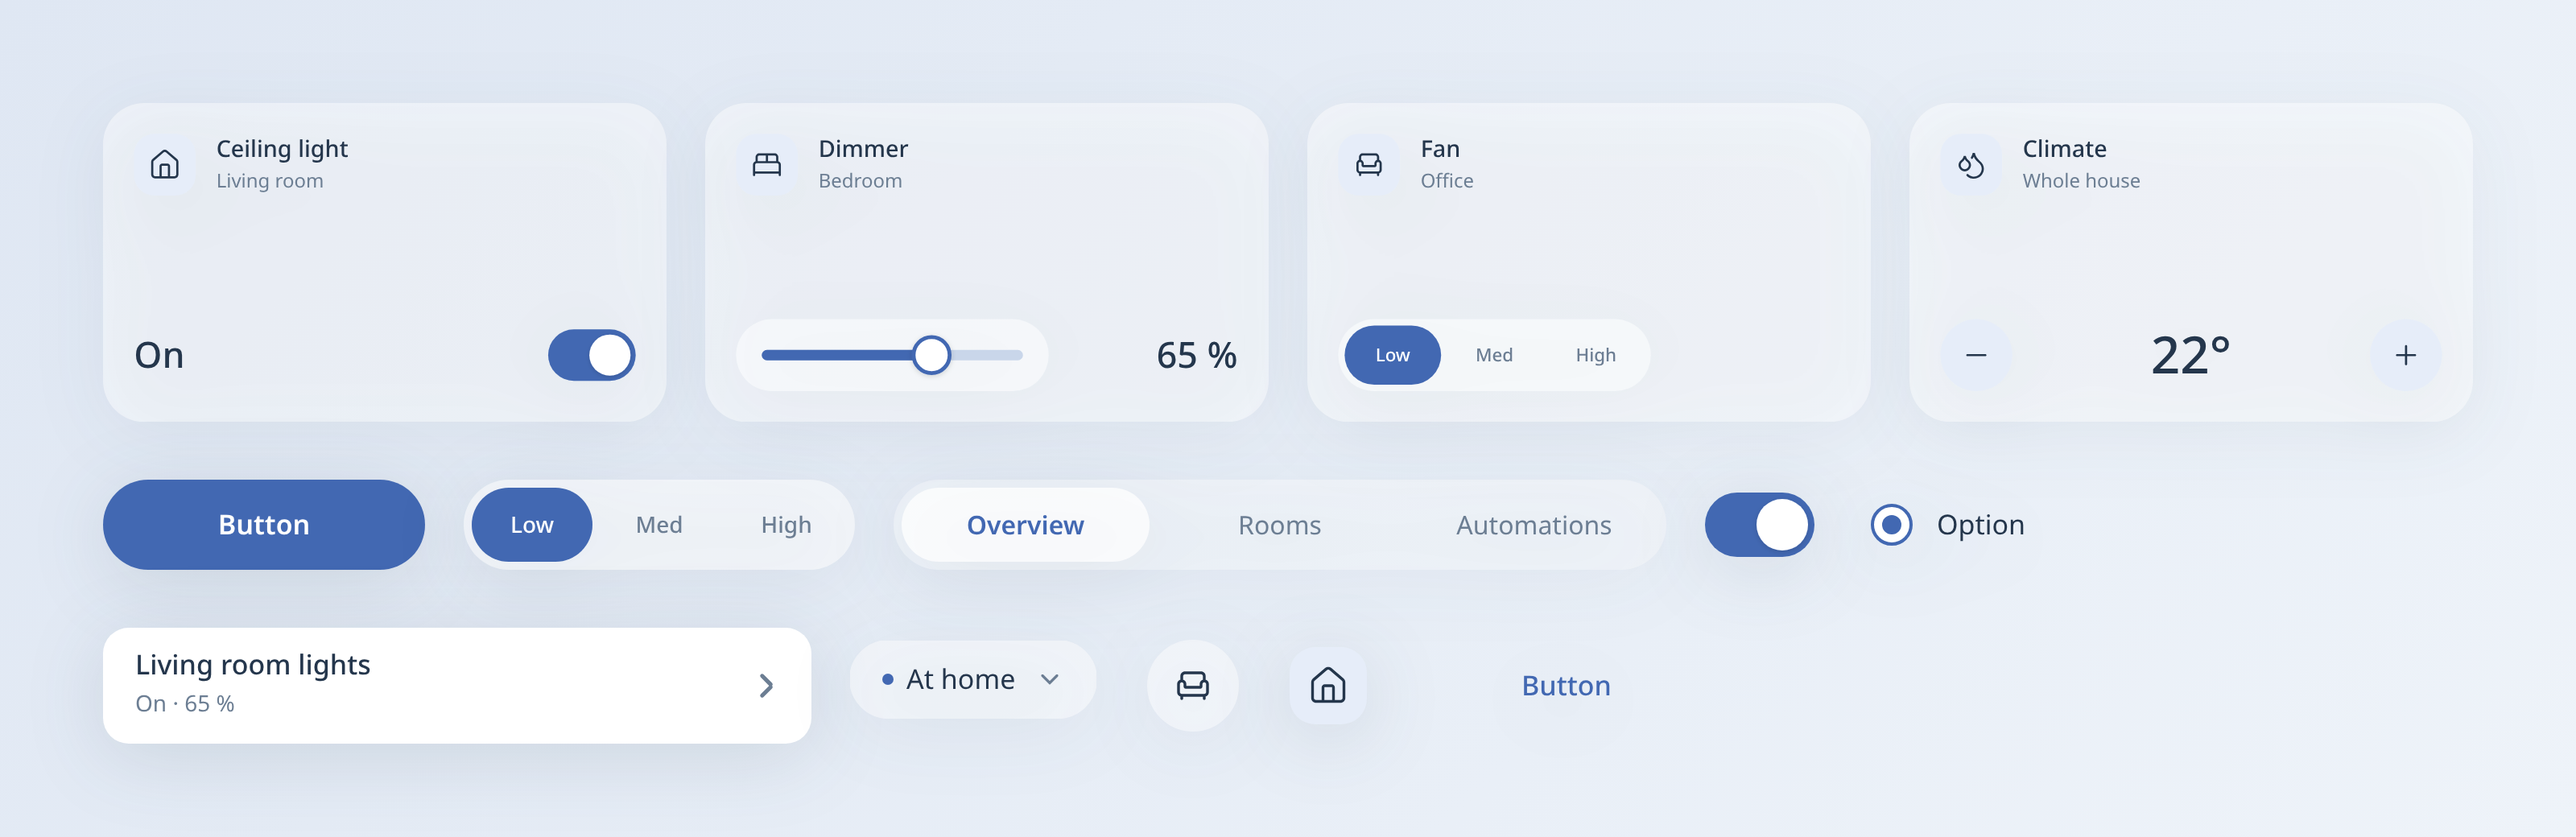
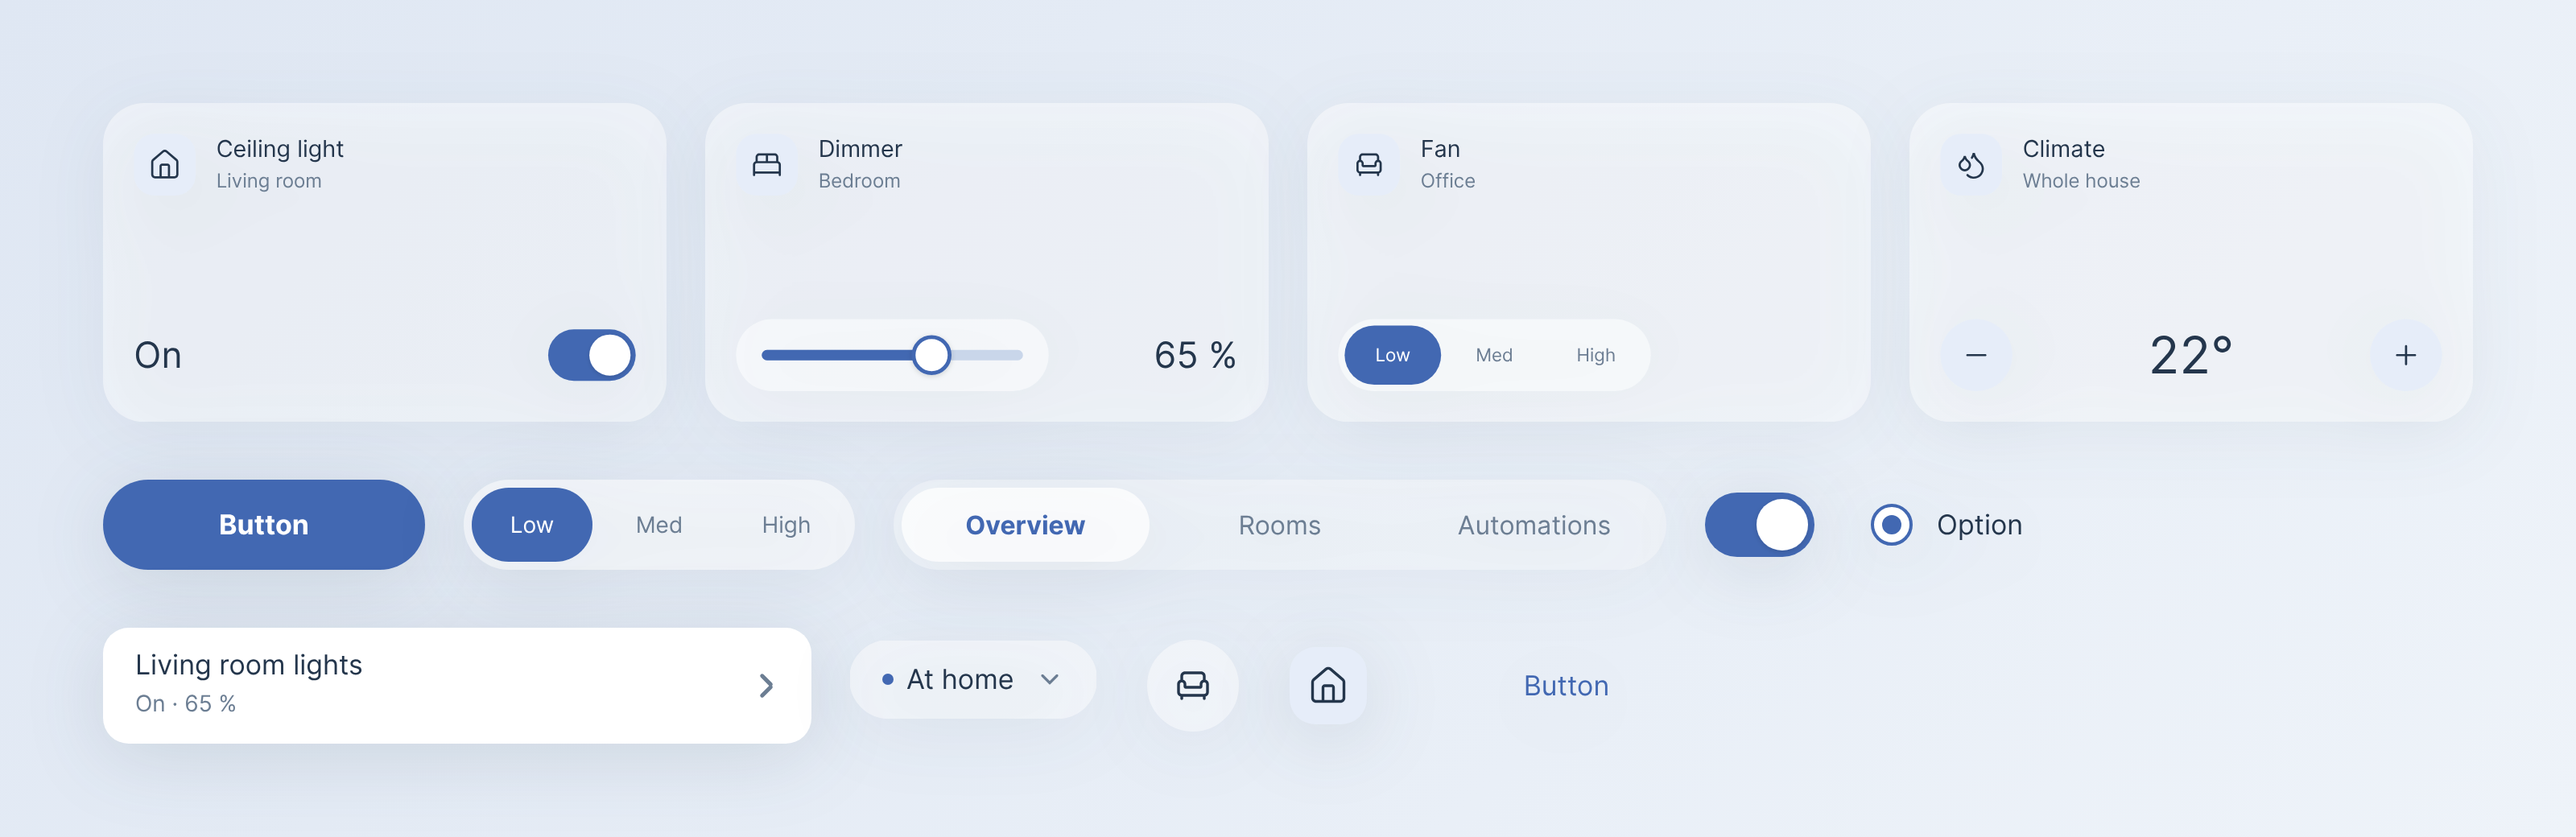
After the review: the README's claims, no skill that is not published, the gallery's font
README: only everyware, ui-lib and the apps have an AGENTS.md; the links at the tree's top come
with repo sync; a new app needs design/build.sh before it runs; four places, not four lines; the
Android.bp hint points at tv-app's file instead of a rust_binary that does not build; an app's
.dcf is built from its design; a tap goes through the app's actions; pairs-app uses the dark
theme too; the recipes test is run.
The harry-app skill is not part of the public apps: AGENTS.md, three skills and llms.txt point
at the new-app skill's build and run steps and at smarthome-app's harry-app-anatomy.md instead.
gallery.py loads Inter from an app's data/, so the picture is drawn in the device's font.

diff --git a/docs/build-docs.js b/docs/build-docs.js
@@ -869,7 +869,7 @@ ${STAGES.map(([own, title, file, code, text], i) => `${i + 1}. ${title} (${file}
 - skills/new-app/SKILL.md: a new board as an app of its own from one sentence (scripts/new-app.sh, the design patch, fig-to-dcf.sh, the RB3)
 - skills/ui-component/SKILL.md and traps.md: how to add or change a component (spec, Figma generator, Rust, binding, app)
 - ../everyware/skills/figma-design/SKILL.md: screens, sheets and the designer's prototype
-- ../everyware/skills/harry-app/SKILL.md: a harry app end to end (state, actions, presenter, UI model)
+- ../../../packages/services/display_safety/utils/smarthome-app/docs/harry-app-anatomy.md: a harry app end to end (state, actions, presenter, UI model)
 
 ${rules}
 

diff --git a/docs/readme/gallery.py b/docs/readme/gallery.py
@@ -5,12 +5,17 @@ see-through glass and are drawn on the light theme's background.
 
 From ui-lib's folder:
 
-    python3 docs/readme/gallery.py docs/assets /tmp/gallery.html
-    google-chrome --headless=new --hide-scrollbars --force-device-scale-factor=2 \
+    python3 docs/readme/gallery.py docs/assets /tmp/gallery.html \
+        ../../../packages/services/display_safety/utils/tv-app/data
+    google-chrome --headless=new --hide-scrollbars --allow-file-access-from-files \
+        --force-device-scale-factor=2 \
         --window-size=1600,520 --screenshot=docs/readme/components.png file:///tmp/gallery.html
 """
 import os, re, sys
 A, OUT = sys.argv[1:3]
+# the device's font (regular and bold; a medium weight is drawn regular), so that the picture
+# does not fall back to the host's system font
+FONTS = os.path.abspath(sys.argv[3]) if len(sys.argv) > 3 else None
 
 def load(path):
     return open(os.path.join(A, path)).read()
@@ -47,7 +52,10 @@ row2 = [('w440', load('list-item/state=default,kind=chevron,lines=two,size=regul
         ('', load('icon-button/kind=glass,state=default,icon=armchair,size=regular.svg')), ('', load('symbol/icon=house.svg')),
         ('', load('button/kind=ghost,state=default,size=regular.svg'))]
 cell = lambda s, c='': f'<div class="{c}">{s}</div>'
-page = f'''<!doctype html><html><head><meta charset="utf-8"><style>
+faces = ''.join(
+    f"@font-face{{font-family:Inter;font-weight:{w};src:url('file://{FONTS}/inter_{n}.otf')}}"
+    for n, w in (('regular', '100 599'), ('bold', '600 900'))) if FONTS else ''
+page = f'''<!doctype html><html><head><meta charset="utf-8"><style>{faces}
 body{{margin:0;font-family:Inter,system-ui,sans-serif}}
 .c{{width:1600px;height:520px;padding:64px;box-sizing:border-box;background:linear-gradient(135deg,#dfe7f3,#eef3f9);display:flex;flex-direction:column;gap:36px}}
 svg{{display:block;height:auto;filter:drop-shadow(0 8px 24px rgba(36,54,76,.12))}}

diff --git a/README.md b/README.md
@@ -3,7 +3,7 @@
 UI components for harry apps on embedded devices: the look is designed in Figma, the behaviour
 is written in Rust, and the screen is drawn without the Android framework.
 
-![Tiles with a toggle, a slider, a segmented button and a stepper; a button, tabs, a switch, a radio button, a list item, a dropdown and icon buttons, as the Library draws them.](docs/readme/components.png)
+![Tiles with a toggle, a slider, a segmented button and a stepper; a button, tabs, a switch, a radio button, a list item, a dropdown and icon buttons: the Library's previews, with the values an app sets.](docs/readme/components.png)
 
 EveryWare UI is the component library of [SDV EveryWare](https://github.com/sdv-everyware/everyware).
 It gives an app 21 components, from a button to an on-screen keyboard, named after their
@@ -43,8 +43,8 @@ sets, its transitions, the Rust API and the lines an app writes.
 
 ## Get started
 
-**The project is built AI first.** Every repository has an `AGENTS.md`, the guide a coding agent
-reads before it touches anything, and the work itself is written down as **skills**: step by step
+**The project is built AI first.** `everyware`, `ui-lib` and every app have an `AGENTS.md`, the
+guide a coding agent reads before it touches anything, and the work itself is written down as **skills**: step by step
 instructions an agent follows, with the traps. This library's guide is [AGENTS.md](AGENTS.md).
 
 The library is part of the SDV EveryWare tree. Sync the tree and build the image as described in
@@ -54,8 +54,9 @@ to the top of that tree.
 ### Build your app with a coding agent
 
 Open the tree in a coding agent (Claude Code, or any agent that reads `AGENTS.md`) and say what
-you want in one sentence. The tree's top has `AGENTS.md` and `CLAUDE.md`, both links to the
-project's guide, so the agent knows the skills from the start. It picks the skill and follows it
+you want in one sentence. After `repo sync` with the project's manifest the tree's top has
+`AGENTS.md` and `CLAUDE.md`, both links to the project's guide, so the agent knows the skills
+from the start. It picks the skill and follows it
 to the board:
 
 | You tell the agent | Skill | What the agent does |
@@ -81,18 +82,20 @@ The skills are also the tutorials: the same steps, for a person. The short versi
 
 ```bash
 vendor/sdv-everyware/ui-lib/scripts/new-app.sh kitchen
+packages/services/display_safety/utils/kitchen-app/design/build.sh   # the design: data/kitchen.dcf
 m kitchen_app
 ```
 
 `new-app.sh` copies tv-app into `packages/services/display_safety/utils/kitchen-app` with its own
-git repository and every name changed. The app builds and runs as it is; then you change its
-design and its screen. The full path from an idea to the board is in
+git repository and every name changed. It builds as it is; `design/build.sh` makes its design
+document, and then it runs with tv-app's screen under the new names. Then you change its design
+and its screen. The full path from an idea to the board is in
 [skills/new-app](skills/new-app/SKILL.md).
 
 #### Put a component on a screen
 
 In Figma, the place on the screen is a frame named for the app, with an instance of the
-component inside: a frame `#entryway/light` holding a `#toggle`. In the app it takes four lines:
+component inside: a frame `#entryway/light` holding a `#toggle`. In the app it takes four places:
 
 ```rust
 use everyware_ui::toggle::{Toggle, ToggleEvent};
@@ -119,12 +122,9 @@ test on the host checks that every name and variant the code uses is in the app'
 
 #### Use it in an existing app
 
-```
-rust_binary {
-    name: "kitchen_app",
-    rustlibs: ["libeveryware_ui"],
-}
-```
+Add `"libeveryware_ui"` to the `rustlibs` of the app's `rust_binary` in its `Android.bp`. tv-app's
+[Android.bp](https://github.com/sdv-everyware/tv-app/blob/main/Android.bp) is a complete example:
+the library and the harry crates an app on it needs.
 
 ## How it works
 
@@ -132,7 +132,7 @@ Every frame comes from three sources, and each decides one thing.
 
 | | Decides | Read by |
 |---|---|---|
-| **Figma** | how it looks: layout, colours, fonts, radii, and every variant of a component as a picture | harry, from the `.dcf` file fetched from the design |
+| **Figma** | how it looks: layout, colours, fonts, radii, and every variant of a component as a picture | harry, from the app's `.dcf`, the design document built from the app's design on the Library |
 | **The app's Rust code** | what is shown: which variant, which text, which value, and what a tap does | the presenter, after every action |
 | **`components.json`** | how a change moves: the duration and the curve of each transition | the Figma generator and the Rust library alike |
 
@@ -140,8 +140,9 @@ Every frame comes from three sources, and each decides one thing.
 flowchart LR
   spec["components.json<br/>sets, variants, transitions"] --> figma["Figma Library<br/>component sets"]
   spec --> core["everyware_ui_core<br/>state machines"]
-  figma -->|fetched| dcf[".dcf<br/>the pictures"]
-  tap["a tap"] --> core
+  figma -->|the app's design| dcf[".dcf<br/>the pictures"]
+  tap["a tap"] --> actions["the app's actions"]
+  actions --> core
   core --> presenter["the app's presenter"]
   presenter --> slot["everyware_ui<br/>slots"]
   slot --> harry["harry<br/>draws the frame"]
@@ -156,8 +157,8 @@ every frame (pressed, a thumb, a caret) is an opacity or a meter, so it stays sm
 The library knows nothing about the apps that use it: there is a tile and a list item, never a
 weather card or a Wi-Fi row. An app maps its own data to a component's values.
 
-The Library comes in a light theme and a dark theme (`design/dark-theme-patch.js`); tv-app and
-hub-app use the dark one.
+The Library comes in a light theme and a dark theme (`design/dark-theme-patch.js`); tv-app,
+hub-app and pairs-app use the dark one.
 
 ## Documentation
 
@@ -193,6 +194,7 @@ source device/rb3/sdv_media_db845c/tools/env.sh
 m libeveryware_ui everyware_ui_core_test everyware_ui_test everyware_ui_recipes_test
 out_rb3/host/linux-x86/nativetest64/everyware_ui_core_test/everyware_ui_core_test
 out_rb3/host/linux-x86/nativetest64/everyware_ui_test/everyware_ui_test
+out_rb3/host/linux-x86/nativetest64/everyware_ui_recipes_test/everyware_ui_recipes_test
 ```
 
 `everyware_ui_core_test` covers the state machines. `everyware_ui_test` checks the Figma contract

diff --git a/AGENTS.md b/AGENTS.md
@@ -46,7 +46,7 @@ file for the task, do the task, run the check; do not read the site.
 | a sheet, dialog or side panel over the screen | `skills/sheet/SKILL.md`, `docs/ai/sheet.md` | the content component in Figma, `Sheet` in the app |
 | a new component, a new variant, a new transition | `skills/ui-component/SKILL.md`, `skills/ui-component/traps.md` | `components.json`, Figma generator, Rust, binding, docs |
 | a screen, a tab, the designer's prototype in Figma | `../everyware/skills/figma-design/SKILL.md` | the kiwi generators, a versioned .fig |
-| the app itself (state, actions, presenter, UI model, build, run, debug) | `packages/services/display_safety/utils/smarthome-app/skills/harry-app/SKILL.md` | |
+| the app itself (state, actions, presenter, UI model, build, run, debug) | `skills/new-app/SKILL.md` (steps 6 to 8), `packages/services/display_safety/utils/smarthome-app/docs/harry-app-anatomy.md` | |
 | what the library is, its principles and rules | `docs/llms.txt` (2 KB) | |
 | one component's facts: variants, parts, API, events, the app's lines, where it is used | `docs/ai/<component>.md` (1-3 KB each; all of them: `docs/llms-full.txt`) | |
 | whether a change is right | `scripts/check.sh` | |

diff --git a/skills/ui-component/SKILL.md b/skills/ui-component/SKILL.md
@@ -211,7 +211,7 @@ measured with the design's text and an opacity set by the item never reaches the
   names (`#kbd/r1/3`, `#dropdown/item/2`); they are unambiguous while one such component is on
   the screen (one keyboard, one open list).
 - Build `m smarthome_app`, run `vendor/sdv-everyware/everyware/scripts/run-smarthome-rb3.sh`,
-  screenshot (see the harry-app skill), press and release the component on the touch screen.
+  screenshot (see the new-app skill, steps 7 and 8), press and release the component on the touch screen.
 
 ## Example: a composite component (the keyboard)
 

diff --git a/skills/sheet/SKILL.md b/skills/sheet/SKILL.md
@@ -73,7 +73,7 @@ outcomes to the fields and the dock follows the focus (`state.osk.follow(...)`).
 ## 3. Check
 
 - `everyware_ui_test` (the parts of `#sheet` exist in the .dcf), `m smarthome_app`, run
-  (harry-app skill): the card slides in by the `open` transition, the scrim fades, a tap on
+  (the new-app skill, steps 7 and 8): the card slides in by the `open` transition, the scrim fades, a tap on
   the scrim closes, a dialog moves up when the keyboard opens.
 - `scripts/check.sh` before the commit.
 

diff --git a/skills/use-component/SKILL.md b/skills/use-component/SKILL.md
@@ -72,7 +72,7 @@ LIBRARY_DCF=packages/services/display_safety/utils/<name>-app/data/<name>.dcf \
   out_rb3/host/linux-x86/nativetest64/everyware_ui_test/everyware_ui_test
 ```
 
-Then on the device (harry-app skill: build, run, screenshot): press and release it, the
+Then on the device (the new-app skill, steps 7 and 8: build, run, screenshot): press and release it, the
 pressed layer fades, the value moves, the event reaches the app (`log::info!` in the arm).
 Before the commit: `scripts/check.sh`.
 
